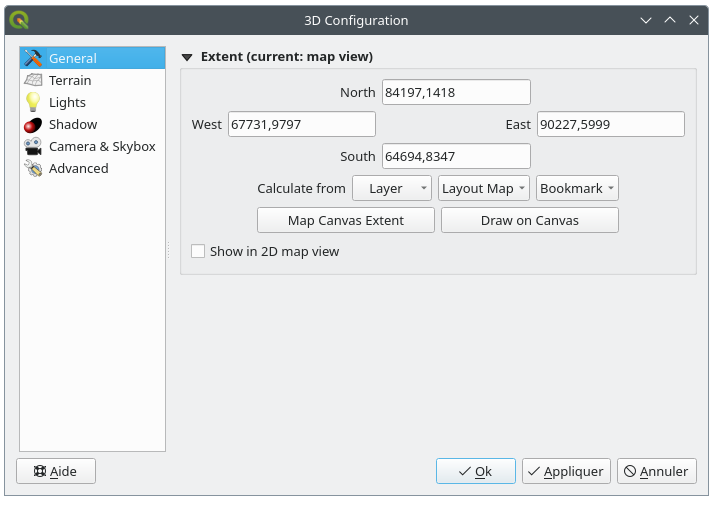
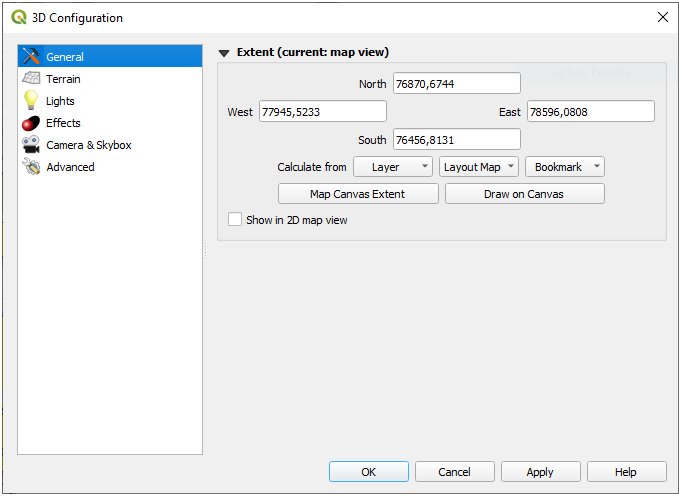
Move EDL and SSAO description to the Effects tab and update screenshots
Fixes #8867

diff --git a/docs/user_manual/map_views/3d_map_view.rst b/docs/user_manual/map_views/3d_map_view.rst
@@ -204,23 +204,67 @@ From the :guilabel:`Lights` tab, press the |symbologyAdd| menu to add
 
    The 3D Map Lights Configuration dialog
 
+.. _scene_effects:
+
+Effects
+-------
+
+.. _figure_3dmap_configeffects:
+
+.. figure:: img/3dmapconfiguration_effects.png
+   :align: center
+
+   The 3D Map Effects Configuration dialog
+
 .. _shadows:
 
-Shadow
-------
+* Check |unchecked| :guilabel:`Show shadows` to display shadows within your scene,
+  given:
 
-Check |unchecked| :guilabel:`Show shadows` to display shadows within your scene,
-given:
+  * a :guilabel:`Directional light`
+  * a :guilabel:`Shadow rendering maximum distance`: to avoid rendering shadow
+    of too distant objects, particularly when the camera looks up along the horizon
+  * a :guilabel:`Shadow bias`: to avoid self-shadowing effects that could make
+    some areas darker than others, due to differences between map sizes.
+    The lower the better
+  * a :guilabel:`Shadow map resolution`: to make shadows look sharper.
+    It may result in less performance if the resolution parameter is too high.
 
-* a :guilabel:`Directional light`
-* a :guilabel:`Shadow rendering maximum distance`: to avoid rendering shadow
-  of too distant objects, particularly when the camera looks up along the
-  horizon
-* a :guilabel:`Shadow bias`: to avoid self-shadowing effects that could make
-  some areas darker than others, due to differences between map sizes.
-  The lower the better
-* a :guilabel:`Shadow map resolution`: to make shadows look sharper.
-  It may result in less performance if the resolution parameter is too high.
+.. _eye_dome_lighting:
+
+* |unchecked| :guilabel:`Show Eye Dome Lighting` (EDL):
+  a post processing effect which enhances depth perception.
+  Each pixel's depth (distance off the camera) is compared to its neighboring pixels' depth
+  and gets highlighted according to that depth difference, making the edges stand out.
+  Affects the whole scene and can be combined with :ref:`Screen Space Ambient Occlusion <ambient_occlusion>`.
+  Following parameters can be controlled:
+
+  * :guilabel:`Lighting strength`: increases the contrast, allowing for better depth perception
+  * :guilabel:`Lighting distance`: represents the distance of the used pixels off the center pixel
+    and has the effect of making edges thicker.
+
+.. _ambient_occlusion:
+
+* Add screen-space |unchecked| :guilabel:`Ambient Occlusion` (SSAO):
+  a post processing effect which also enhances depth perception
+  by applying a darker shading to areas which are less exposed to ambient lighting.
+  Affects the whole scene and can be combined with :ref:`Eye dome Lighting <eye_dome_lighting>`.
+  Following parameters can be controlled:
+
+  * :guilabel:`Radius`: how far we will reach to calculate ambient occlusion
+  * :guilabel:`Intensity`: how strong the effect should be (higher values make things darker)
+  * :guilabel:`Occlusion threshold`: how many neighboring points need to be occluded for the effect to appear
+    (lower values than 50% will make the output darker, but possibly providing greater range of occlusion)
+
+.. _figure_3dmaps_edl_ssao:
+
+.. figure:: img/3dmap_edl_ssao.png
+   :align: center
+
+   Rendering Point clouds in 3D map using Eye Dome Lighting (EDL) and/or Screen-Space Ambient Occlusion (SSAO)
+
+   From top, left to right: No effect -- SSAO only -- EDL only -- SSAO and EDL
+
 
 Camera & Skybox
 ---------------
@@ -274,6 +318,13 @@ synchronization and skybox.
 Advanced
 --------
 
+.. _figure_3dmap_configadvanced:
+
+.. figure:: img/3dmapconfiguration_advanced.png
+   :align: center
+
+   The 3D Map Advanced Configuration dialog
+
 * :guilabel:`Map tile resolution`: Width and height of the 2D map
   images used as textures for the terrain tiles.
   256px means that each tile will be rendered into an image of
@@ -305,42 +356,6 @@ Advanced
 * |unchecked| :guilabel:`Show debug overlay`: visual overlay which displays
   some useful debugging and profiling information.
   This allows in particular to quickly see the frame graph and the scene graph.
-
-.. _eye_dome_lighting:
-
-* |unchecked| :guilabel:`Show Eye Dome Lighting` (EDL):
-  a post processing effect which enhances depth perception.
-  Each pixel's depth (distance off the camera) is compared to its neighboring pixels' depth
-  and gets highlighted according to that depth difference, making the edges stand out.
-  Affects the whole scene and can be combined with :ref:`Screen Space Ambient Occlusion <ambient_occlusion>`.
-  Following parameters can be controlled:
-
-  * :guilabel:`Lighting strength`: increases the contrast, allowing for better depth perception
-  * :guilabel:`Lighting distance`: represents the distance of the used pixels off the center pixel
-    and has the effect of making edges thicker.
-
-.. _ambient_occlusion:
-
-* Add screen-space |unchecked| :guilabel:`Ambient Occlusion` (SSAO):
-  a post processing effect which also enhances depth perception
-  by applying a darker shading to areas which are less exposed to ambient lighting.
-  Affects the whole scene and can be combined with :ref:`Eye dome Lighting <eye_dome_lighting>`.
-  Following parameters can be controlled:
-
-  * :guilabel:`Radius`: how far we will reach to calculate ambient occlusion
-  * :guilabel:`Intensity`: how strong the effect should be (higher values make things darker)
-  * :guilabel:`Occlusion threshold`: how many neighboring points need to be occluded for the effect to appear
-    (lower values than 50% will make the output darker, but possibly providing greater range of occlusion)
-
-.. _figure_3dmaps_edl_ssao:
-
-.. figure:: img/3dmap_edl_ssao.png
-   :align: center
-
-   Rendering Point clouds in 3D map using Eye Dome Lighting (EDL) and/or Screen-Space Ambient Occlusion (SSAO)
-
-   From top, left to right: No effect -- SSAO only -- EDL only -- SSAO and EDL
-
 * |unchecked| :guilabel:`Debug Shadow Map`: renders the scene as a red-black image
   from the point of view of the light used for shadows (for troubleshooting). 
   The widget is set with a proportional :guilabel:`Size` to the 3D map view's,
